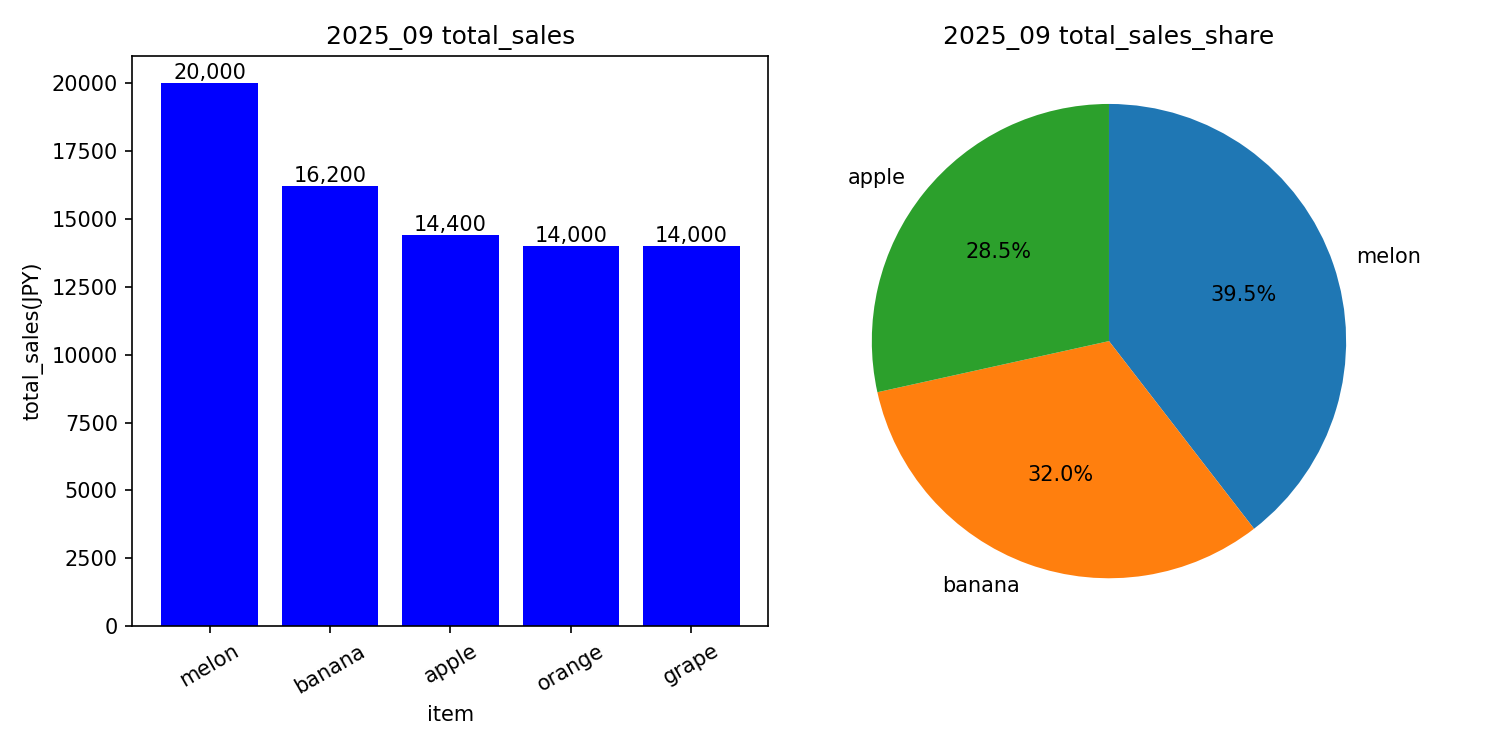
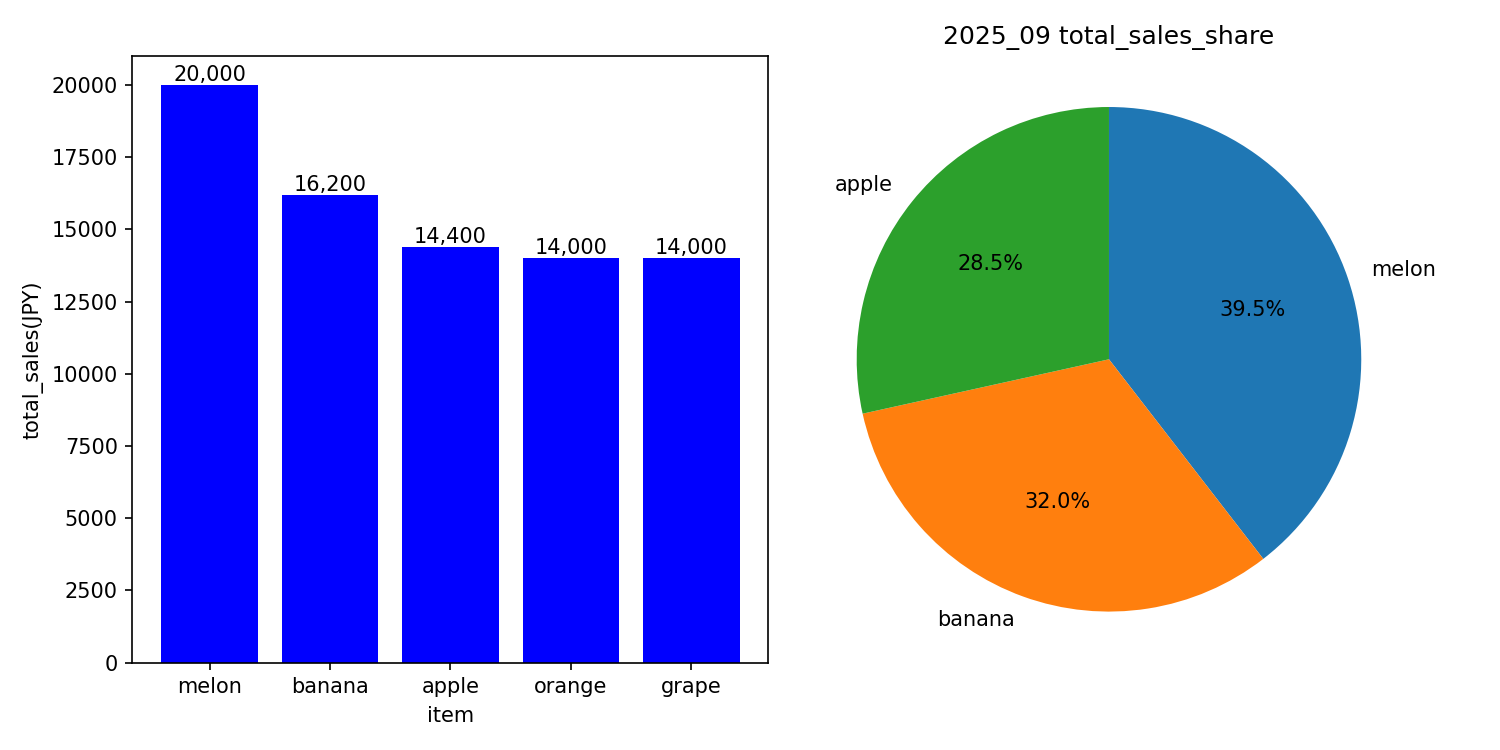
マージ後編集せずにプッシュしてしまったため修正して、プッシュ

diff --git a/basic_pandas_matplotlib/day11_2.py b/basic_pandas_matplotlib/day11_2.py
@@ -92,12 +92,7 @@ for csv_path in csv_files:
     )
     axes[0].set_xlabel("item")
     axes[0].set_ylabel("total_sales(JPY)")
-<<<<<<< HEAD
-    axes[0].set_title(f"{data_label}_total_sales")
-=======
-    axes[0].set_title(f"{data_label} total_sales")
-    axes[0].tick_params(axis="x", rotation=30)
->>>>>>> feature/monthly-report
+
     for bar in bars:
         x = bar.get_x() + bar.get_width()/2
         y = bar.get_height()
@@ -109,11 +104,6 @@ for csv_path in csv_files:
             va="bottom"
             
         )
-<<<<<<< HEAD
-    print(graph_out_data)
-    plt.savefig(f"{folder}/{data_label}.png")
-    plt.close(fig)
-=======
     
     # 円グラフ作成
     if total_sales > 0:
@@ -158,4 +148,3 @@ summary_df["mom_percent"] = (
     summary_df["total_sales"].pct_change().mul(100).round(1)
     )
 summary_df.to_csv(out_root / "summary_all_month.csv", index=False, encoding="utf-8-sig")
->>>>>>> feature/monthly-report
